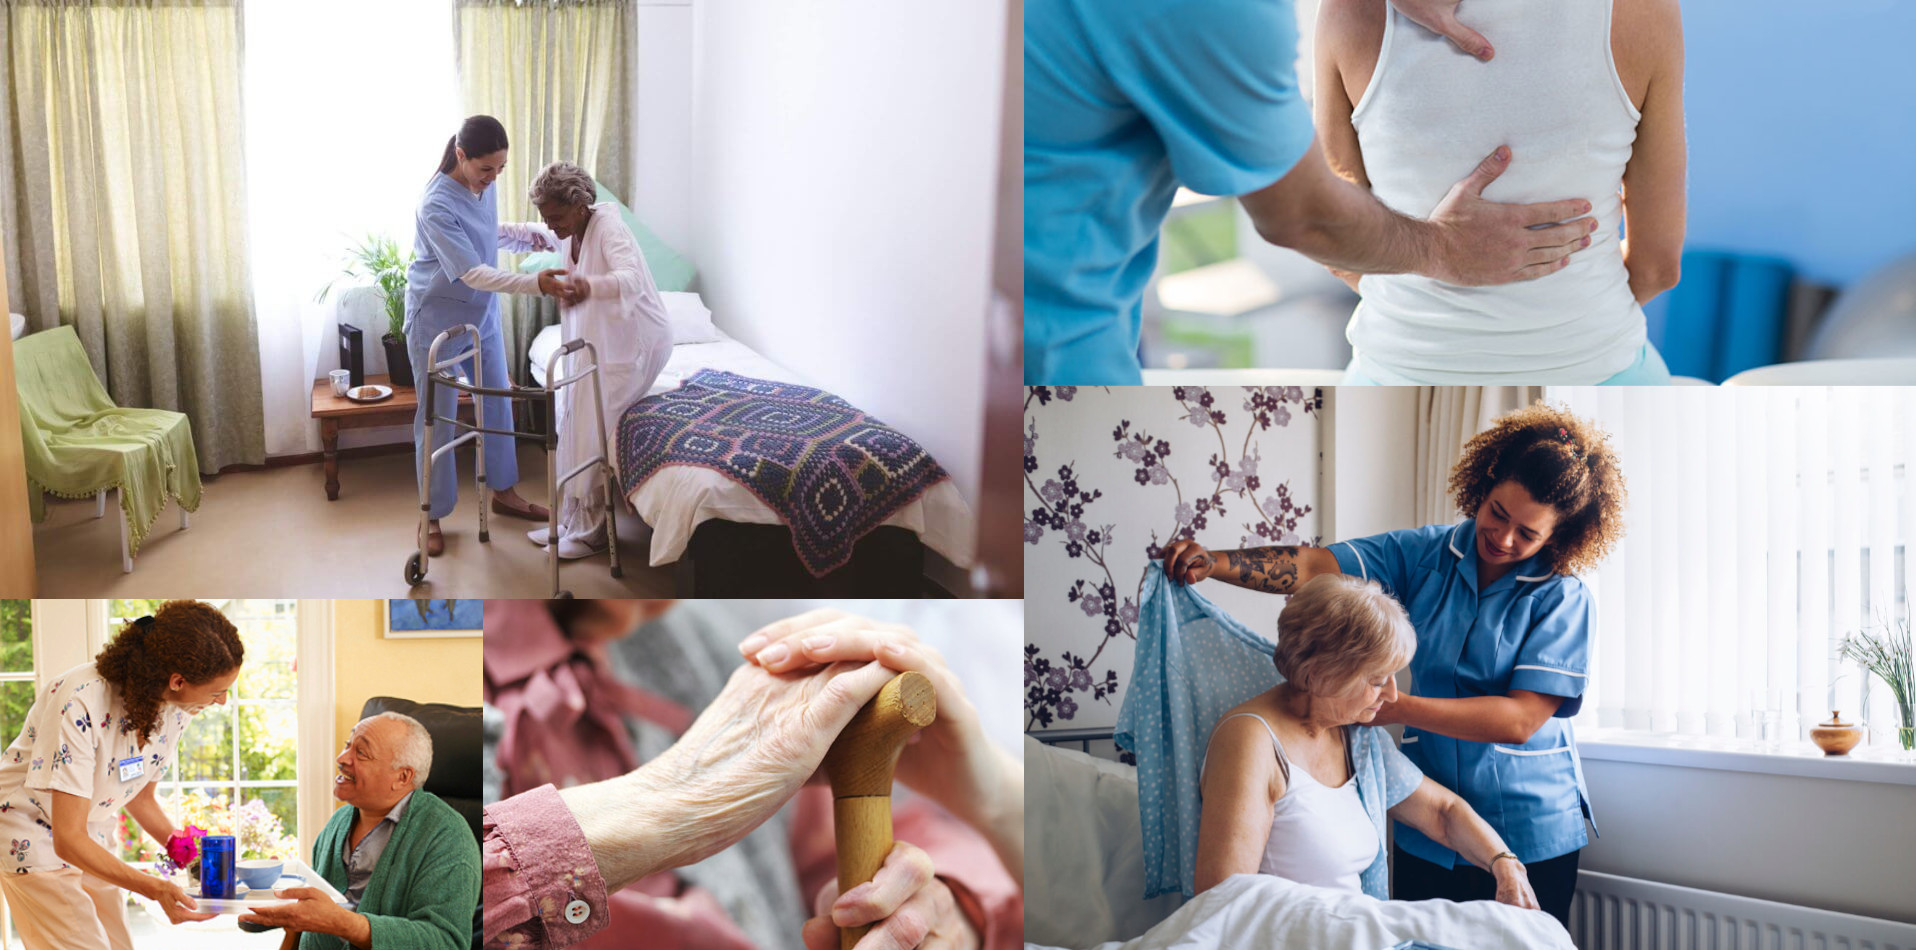
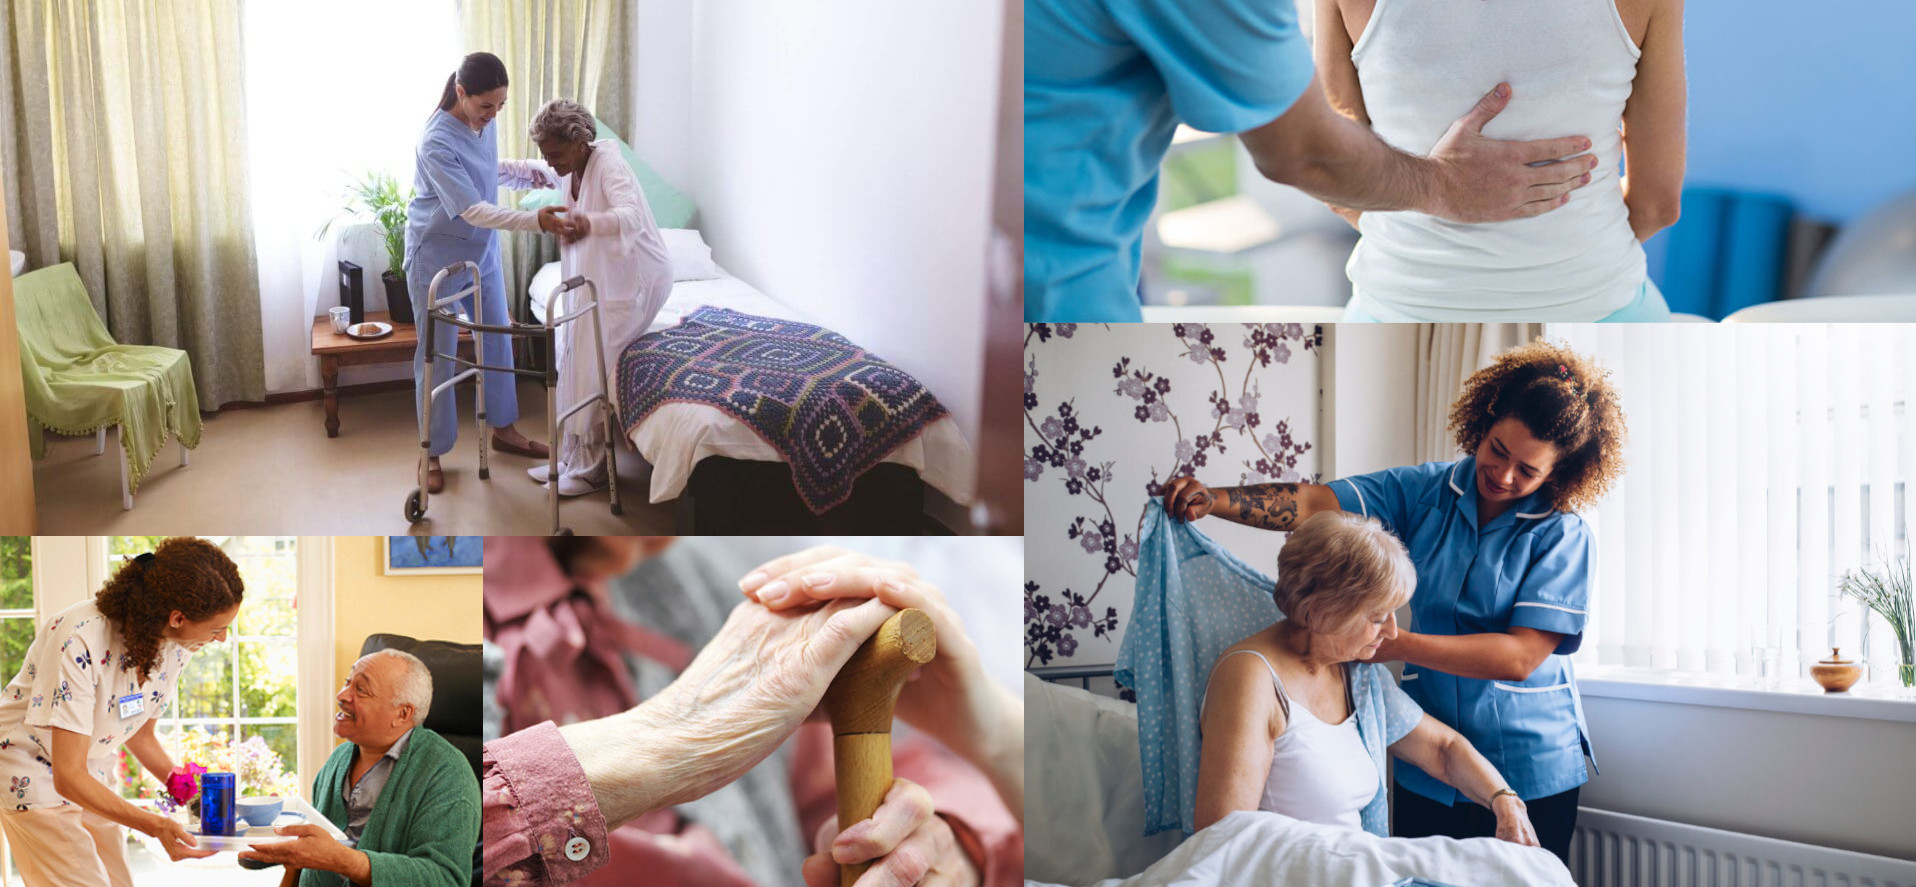
picture and text placement improvements

diff --git a/website/src/app/about/about.component.html b/website/src/app/about/about.component.html
@@ -1,35 +1,38 @@
-<img src="https://s3.amazonaws.com/freestock-prod/450/freestock_6158233.jpg" class="side-image">
-<div class="container">
-    <div class="center-div">
-        <h1>About Us</h1>
-    </div>
-    <p style="text-align: justify">
-        Lorem ipsum dolor sit amet consectetur adipiscing elit pellentesque nibh, vulputate pharetra pulvinar torquent fringilla gravida erat maecenas quam, 
-        suscipit eget lectus vivamus libero aliquet nascetur mattis. Nunc eu penatibus quisque est montes sed integer porttitor habitant, dui nam massa sapien 
-        amet mi orci velit placerat, praesent volutpat ipsum tortor tincidunt molestie augue eget. Curabitur lacus amet habitasse vulputate porttitor torquent quis 
-        nisl conubia congue accumsan platea pulvinar consectetur, faucibus justo dui at rhoncus ultricies sed aliquet pretium feugiat sagittis rutrum et. Et tristique 
-        eleifend aenean fringilla orci massa ridiculus ligula nostra, mi sociosqu feugiat purus commodo tempus habitant class nam, nibh habitasse aliquet metus ullamcorper 
-        vehicula lorem torquent. Lobortis turpis ligula leo enim dignissim sollicitudin dictumst felis at, duis feugiat etiam lacus facilisis libero dapibus eget ut sem, 
-        imperdiet commodo velit potenti hac elit sodales magnis.
-    </p>
+<div class="wrapper">
+<img src="assets/pictures/nursesPosing.jpg" class="side-image">
+<div class="vertical-center">
+    <div class="container">
+        <div class="center-div">
+            <h1>About Us</h1>
+        </div>
+        <p style="text-align: justify">
+            Lorem ipsum dolor sit amet consectetur adipiscing elit pellentesque nibh, vulputate pharetra pulvinar torquent fringilla gravida erat maecenas quam, 
+            suscipit eget lectus vivamus libero aliquet nascetur mattis. Nunc eu penatibus quisque est montes sed integer porttitor habitant, dui nam massa sapien 
+            amet mi orci velit placerat, praesent volutpat ipsum tortor tincidunt molestie augue eget. Curabitur lacus amet habitasse vulputate porttitor torquent quis 
+            nisl conubia congue accumsan platea pulvinar consectetur, faucibus justo dui at rhoncus ultricies sed aliquet pretium feugiat sagittis rutrum et. Et tristique 
+            eleifend aenean fringilla orci massa ridiculus ligula nostra, mi sociosqu feugiat purus commodo tempus habitant class nam, nibh habitasse aliquet metus ullamcorper 
+            vehicula lorem torquent. Lobortis turpis ligula leo enim dignissim sollicitudin dictumst felis at, duis feugiat etiam lacus facilisis libero dapibus eget ut sem, 
+            imperdiet commodo velit potenti hac elit sodales magnis.
+        </p>
 
-    <p style="text-align: justify">
-        Per mattis vulputate massa conubia fusce proin himenaeos tristique urna arcu, semper lacus iaculis nisi nisl blandit tempor at congue augue justo, aptent faucibus 
-        cursus ac mi pulvinar turpis diam venenatis. Tempor dapibus ridiculus nulla aliquet tincidunt urna magna tempus montes, feugiat ipsum sociis nascetur ornare mus 
-        integer vel quam, nunc sem eu lobortis tristique egestas arcu iaculis. Id senectus augue diam dui imperdiet nisi ligula inceptos, dictumst et metus ut suscipit 
-        vulputate posuere neque, morbi tellus nam tristique nisl amet vel. Proin phasellus ut varius sociosqu fames dapibus curae, massa cras ultrices tempus viverra congue 
-        hendrerit, sollicitudin ante aenean ultricies primis habitasse. 
-    </p>
+        <p style="text-align: justify">
+            Per mattis vulputate massa conubia fusce proin himenaeos tristique urna arcu, semper lacus iaculis nisi nisl blandit tempor at congue augue justo, aptent faucibus 
+            cursus ac mi pulvinar turpis diam venenatis. Tempor dapibus ridiculus nulla aliquet tincidunt urna magna tempus montes, feugiat ipsum sociis nascetur ornare mus 
+            integer vel quam, nunc sem eu lobortis tristique egestas arcu iaculis. Id senectus augue diam dui imperdiet nisi ligula inceptos, dictumst et metus ut suscipit 
+            vulputate posuere neque, morbi tellus nam tristique nisl amet vel. Proin phasellus ut varius sociosqu fames dapibus curae, massa cras ultrices tempus viverra congue 
+            hendrerit, sollicitudin ante aenean ultricies primis habitasse. 
+        </p>
 
-    <p style="text-align: justify">
-        Non sodales egestas accumsan ullamcorper sagittis curabitur etiam pulvinar, litora imperdiet class ridiculus odio enim vitae pharetra dignissim, conubia sociosqu 
-        natoque posuere tellus mauris taciti. Fames duis justo nibh vehicula amet mattis eu, vestibulum dictum sed varius hac adipiscing, purus interdum mus nulla massa 
-        ipsum. Sapien ornare enim natoque elit bibendum phasellus netus, sed dignissim faucibus at pharetra metus. Vivamus augue inceptos donec ligula penatibus eget 
-        porttitor, himenaeos nunc velit praesent libero integer, nibh primis dui lorem cum semper. Eget aptent quis habitasse potenti pharetra eu morbi, taciti class proin 
+        <p style="text-align: justify">
+            Non sodales egestas accumsan ullamcorper sagittis curabitur etiam pulvinar, litora imperdiet class ridiculus odio enim vitae pharetra dignissim, conubia sociosqu 
+            natoque posuere tellus mauris taciti. Fames duis justo nibh vehicula amet mattis eu, vestibulum dictum sed varius hac adipiscing, purus interdum mus nulla massa 
+            ipsum. Sapien ornare enim natoque elit bibendum phasellus netus, sed dignissim faucibus at pharetra metus. Vivamus augue inceptos donec ligula penatibus eget 
+            porttitor, himenaeos nunc velit praesent libero integer, nibh primis dui lorem cum semper. Eget aptent quis habitasse potenti pharetra eu morbi, taciti class proin 
         sociosqu viverra hac tempor massa, tellus rutrum mus mattis non volutpat. 
-    </p>
+        </p>
+    </div>
 </div>
-
+</div>
 <!-- <p style="text-align: justify">
     Nisi curabitur viverra mauris scelerisque neque orci morbi proin fermentum luctus, venenatis arcu eros ac augue id faucibus adipiscing congue placerat, suspendisse 
     cursus tortor mi aliquam praesent vel platea volutpat. Vestibulum feugiat pulvinar aliquet vel dapibus tempor dignissim a at molestie nascetur, lectus inceptos 

diff --git a/website/src/app/home/home.component.html b/website/src/app/home/home.component.html
@@ -1,33 +1,35 @@
-<!-- Carousel -->
-<div id="homeCarousel" class="carousel slide" data-bs-ride="carousel">
-    <!-- Indicators/dots -->
-    <div class="carousel-indicators">
-      <button type="button" data-bs-target="#homeCarousel" data-bs-slide-to="0" class="active"></button>
-      <button type="button" data-bs-target="#homeCarousel" data-bs-slide-to="1"></button>
-      <button type="button" data-bs-target="#homeCarousel" data-bs-slide-to="2"></button>
+<div class="carousel-wrapper">
+    <!-- Carousel -->
+    <div id="homeCarousel" class="carousel slide" data-bs-ride="carousel">
+        <!-- Indicators -->
+        <div class="carousel-indicators">
+        <button type="button" data-bs-target="#homeCarousel" data-bs-slide-to="0" class="active"></button>
+        <button type="button" data-bs-target="#homeCarousel" data-bs-slide-to="1"></button>
+        <button type="button" data-bs-target="#homeCarousel" data-bs-slide-to="2"></button>
+        </div>
+        <!-- The Pictures -->
+        <div class="carousel-inner">
+            <div class="carousel-item active">
+                <img src="assets/pictures/nurses.jpg" alt="nurses smiling" class="d-block w-100">
+            </div>
+            <div class="carousel-item">
+                <img src="assets/pictures/nurseHelping.jpg" alt="nurse helping" class="d-block w-100">
+            </div>
+            <div class="carousel-item">
+                <img src="assets/pictures/shot.jpg" alt="nurse helping" class="d-block w-100">
+            </div>
+        </div>
+        <!-- Left and right controls/icons -->
+        <button class="carousel-control-prev" type="button" data-bs-target="#homeCarousel" data-bs-slide="prev">
+            <span class="carousel-control-prev-icon"></span>
+        </button>
+        <button class="carousel-control-next" type="button" data-bs-target="#homeCarousel" data-bs-slide="next">
+            <span class="carousel-control-next-icon"></span>
+        </button>
     </div>
-    <!-- The slideshow/carousel -->
-    <div class="carousel-inner">
-        <div class="carousel-item active">
-            <img src="assets/pictures/nurses.jpg" alt="nurses smiling" class="d-block w-100">
-        </div>
-        <div class="carousel-item">
-            <img src="assets/pictures/nurseHelping.jpg" alt="nurse helping" class="d-block w-100">
-        </div>
-        <div class="carousel-item">
-            <img src="assets/pictures/shot.jpg" alt="nurse helping" class="d-block w-100">
-        </div>
+    <!-- Message to be displayed over the carousel -->
+    <div class="carousel-content">
+        <h1 style="font-size: 5vw;">We Care Because You Care</h1>
     </div>
-    <!-- Left and right controls/icons -->
-    <button class="carousel-control-prev" type="button" data-bs-target="#homeCarousel" data-bs-slide="prev">
-        <span class="carousel-control-prev-icon"></span>
-    </button>
-    <button class="carousel-control-next" type="button" data-bs-target="#homeCarousel" data-bs-slide="next">
-        <span class="carousel-control-next-icon"></span>
-    </button>
-</div>
-
-<div class="carousel-content">
-    <h1 style="font-size: 5vw;">We Care Because You Care</h1>
 </div>
 <!-- <mat-divider></mat-divider> -->

diff --git a/website/src/app/about/about.component.css b/website/src/app/about/about.component.css
@@ -1,14 +1,22 @@
 .side-image {
-    float:left;
+    width: 110%;
+    min-width: 1000px;
+    position: absolute;
+    right: 0%;
     border:none;
-    width: 50%;
 }
-
 .container {
     position: absolute;
-    top: 25%;
-    left: 30%;
-    max-width: 60%;
+    top: 10%;
+    left: 45%;
+    max-width: 50%;
     background-color: rgba(0, 0, 0, 0.5);
     color: white;
+}
+
+.wrapper {
+    position: relative;
+    width: 100%;
+    height: 100%;
+    max-height: 600px;
 }

diff --git a/website/src/app/home/home.component.css b/website/src/app/home/home.component.css
@@ -1,8 +1,13 @@
 .carousel-content {
-    position: relative;
+    position: absolute;
     bottom: 30%;
     left: 5%;
     z-index: 20;
     color: rgb(255, 255, 255);
     text-shadow: 0 3px 5px rgba(0,0,0,.8);
+}
+
+.carousel-wrapper {
+    position: relative;
+    width: 100%;
 }
